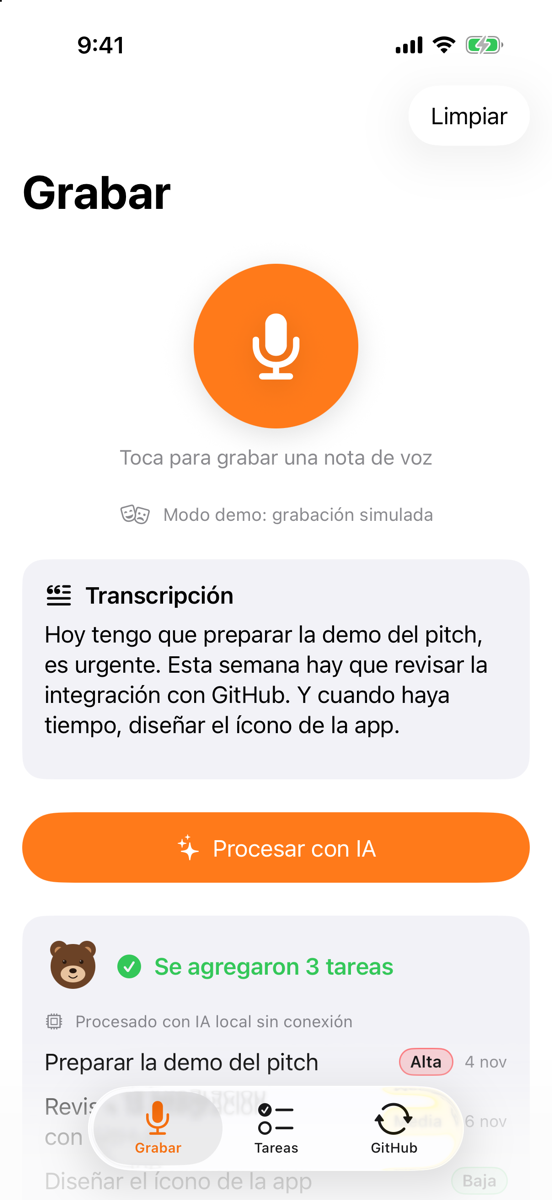
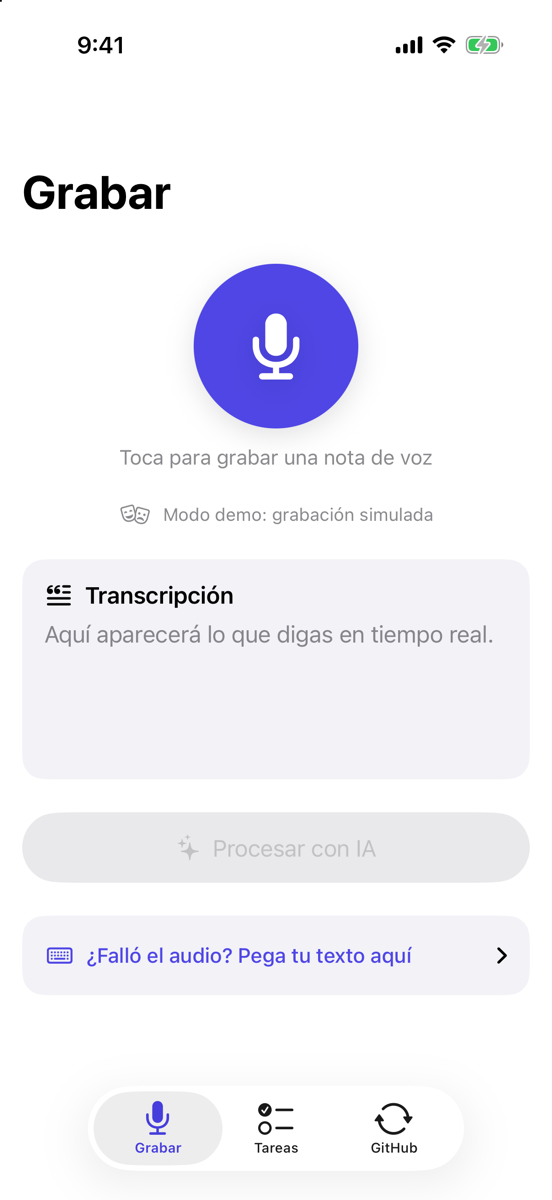
feat: nueva identidad visual con mascota búho propia

diff --git a/Voice2Task/Views/Components/MascotView.swift b/Voice2Task/Views/Components/MascotView.swift
@@ -1,0 +1,176 @@
+import SwiftUI
+
+struct MascotView: View {
+    enum Mood {
+        case happy
+        case listening
+    }
+
+    let size: CGFloat
+    var mood: Mood?
+
+    private let amber = Color(red: 245 / 255, green: 165 / 255, blue: 36 / 255)
+    private let tuftColor = Color(red: 217 / 255, green: 134 / 255, blue: 26 / 255)
+    private let faceColor = Color(red: 255 / 255, green: 231 / 255, blue: 184 / 255)
+    private let dark = Color(red: 31 / 255, green: 27 / 255, blue: 58 / 255)
+    private let beakColor = Color(red: 249 / 255, green: 115 / 255, blue: 22 / 255)
+
+    var body: some View {
+        ZStack {
+            if mood == .listening {
+                HeadphoneBand()
+                    .stroke(.white, style: StrokeStyle(lineWidth: size * 0.025, lineCap: .round))
+                    .frame(width: size * 0.94, height: size * 0.55)
+                    .offset(y: -size * 0.2)
+            }
+
+            Ellipse()
+                .fill(amber)
+                .frame(width: size * 0.78, height: size * 0.9)
+                .offset(y: size * 0.04)
+
+            OwlTuft()
+                .fill(tuftColor)
+                .frame(width: size * 0.2, height: size * 0.19)
+                .rotationEffect(.degrees(-12))
+                .offset(x: -size * 0.22, y: -size * 0.36)
+            OwlTuft()
+                .fill(tuftColor)
+                .frame(width: size * 0.2, height: size * 0.19)
+                .rotationEffect(.degrees(12))
+                .offset(x: size * 0.22, y: -size * 0.36)
+
+            Circle()
+                .fill(faceColor)
+                .frame(width: size * 0.46, height: size * 0.46)
+                .offset(x: -size * 0.13, y: -size * 0.065)
+            Circle()
+                .fill(faceColor)
+                .frame(width: size * 0.46, height: size * 0.46)
+                .offset(x: size * 0.13, y: -size * 0.065)
+
+            if mood == .happy {
+                ClosedEye()
+                    .stroke(dark, style: StrokeStyle(lineWidth: size * 0.035, lineCap: .round))
+                    .frame(width: size * 0.18, height: size * 0.1)
+                    .offset(x: -size * 0.14, y: -size * 0.06)
+                ClosedEye()
+                    .stroke(dark, style: StrokeStyle(lineWidth: size * 0.035, lineCap: .round))
+                    .frame(width: size * 0.18, height: size * 0.1)
+                    .offset(x: size * 0.14, y: -size * 0.06)
+            } else {
+                eye.offset(x: -size * 0.14, y: -size * 0.065)
+                eye.offset(x: size * 0.14, y: -size * 0.065)
+            }
+
+            RoundedTriangle()
+                .fill(beakColor)
+                .frame(width: size * 0.15, height: size * 0.14)
+                .offset(y: size * 0.075)
+
+            Ellipse()
+                .fill(faceColor)
+                .frame(width: size * 0.43, height: size * 0.31)
+                .offset(y: size * 0.29)
+
+            ForEach(0..<3) { index in
+                FeatherChevron()
+                    .stroke(tuftColor, style: StrokeStyle(lineWidth: size * 0.014, lineCap: .round))
+                    .frame(width: size * 0.13, height: size * 0.045)
+                    .offset(y: size * (0.2 + CGFloat(index) * 0.07))
+            }
+
+            if mood == .listening {
+                headphones
+            }
+        }
+        .frame(width: size, height: size)
+        .accessibilityHidden(true)
+    }
+
+    private var eye: some View {
+        ZStack {
+            Circle()
+                .fill(.white)
+                .frame(width: size * 0.22, height: size * 0.22)
+            Circle()
+                .fill(dark)
+                .frame(width: size * 0.105, height: size * 0.105)
+            Circle()
+                .fill(.white)
+                .frame(width: size * 0.035, height: size * 0.035)
+                .offset(x: -size * 0.027, y: -size * 0.032)
+        }
+    }
+
+    private var headphones: some View {
+        HStack {
+            RoundedRectangle(cornerRadius: size * 0.04)
+                .fill(Color.accentColor)
+                .frame(width: size * 0.11, height: size * 0.22)
+            Spacer()
+            RoundedRectangle(cornerRadius: size * 0.04)
+                .fill(Color.accentColor)
+                .frame(width: size * 0.11, height: size * 0.22)
+        }
+        .frame(width: size * 0.95)
+        .offset(y: -size * 0.02)
+    }
+}
+
+private struct OwlTuft: Shape {
+    func path(in rect: CGRect) -> Path {
+        Path { path in
+            path.move(to: CGPoint(x: rect.minX, y: rect.maxY))
+            path.addQuadCurve(to: CGPoint(x: rect.midX, y: rect.minY), control: CGPoint(x: rect.minX, y: rect.minY))
+            path.addQuadCurve(to: CGPoint(x: rect.maxX, y: rect.maxY), control: CGPoint(x: rect.maxX, y: rect.minY))
+            path.closeSubpath()
+        }
+    }
+}
+
+private struct RoundedTriangle: Shape {
+    func path(in rect: CGRect) -> Path {
+        Path { path in
+            path.move(to: CGPoint(x: rect.minX, y: rect.minY))
+            path.addQuadCurve(to: CGPoint(x: rect.maxX, y: rect.minY), control: CGPoint(x: rect.midX, y: rect.minY + rect.height * 0.12))
+            path.addQuadCurve(
+                to: CGPoint(x: rect.midX, y: rect.maxY),
+                control: CGPoint(x: rect.minX + rect.width * 0.86, y: rect.minY + rect.height * 0.82)
+            )
+            path.addQuadCurve(
+                to: CGPoint(x: rect.minX, y: rect.minY),
+                control: CGPoint(x: rect.minX + rect.width * 0.14, y: rect.minY + rect.height * 0.82)
+            )
+            path.closeSubpath()
+        }
+    }
+}
+
+private struct ClosedEye: Shape {
+    func path(in rect: CGRect) -> Path {
+        Path { path in
+            path.move(to: CGPoint(x: rect.minX, y: rect.maxY))
+            path.addQuadCurve(to: CGPoint(x: rect.maxX, y: rect.maxY), control: CGPoint(x: rect.midX, y: rect.minY))
+        }
+    }
+}
+
+private struct HeadphoneBand: Shape {
+    func path(in rect: CGRect) -> Path {
+        Path { path in
+            path.move(to: CGPoint(x: rect.minX, y: rect.maxY))
+            path.addQuadCurve(to: CGPoint(x: rect.maxX, y: rect.maxY), control: CGPoint(x: rect.midX, y: rect.minY))
+        }
+    }
+}
+
+private struct FeatherChevron: Shape {
+    func path(in rect: CGRect) -> Path {
+        Path { path in
+            path.move(to: CGPoint(x: rect.minX, y: rect.minY))
+            path.addQuadCurve(to: CGPoint(x: rect.midX, y: rect.maxY), control: CGPoint(x: rect.minX + rect.width * 0.25, y: rect.maxY))
+            path.addQuadCurve(to: CGPoint(x: rect.maxX, y: rect.minY), control: CGPoint(x: rect.maxX - rect.width * 0.25, y: rect.maxY))
+        }
+    }
+}

diff --git a/Voice2Task/Views/RecordingView.swift b/Voice2Task/Views/RecordingView.swift
@@ -3,17 +3,17 @@ import SwiftUI
 struct RecordingView: View {
     @Environment(RecordingViewModel.self) private var viewModel
     @State private var showManualInput = false
-    @State private var resultBearBounce = false
+    @State private var resultMascotBounce = false
 
     var body: some View {
         recordingScreen
             .onChange(of: viewModel.tasksAddedCount) { oldValue, taskCount in
                 guard taskCount > oldValue else { return }
-                resultBearBounce = false
+                resultMascotBounce = false
                 Task {
                     try? await Task.sleep(for: .milliseconds(40))
                     withAnimation(.spring(response: 0.35, dampingFraction: 0.5)) {
-                        resultBearBounce = true
+                        resultMascotBounce = true
                     }
                 }
             }
@@ -69,7 +69,7 @@ struct RecordingView: View {
         VStack(spacing: 12) {
             if viewModel.isRecording {
                 VStack(spacing: 2) {
-                    BearMascotView(size: 54, mood: .listening)
+                    MascotView(size: 54, mood: .listening)
                     WaveformView(level: viewModel.audioLevel)
                 }
                 .transition(.move(edge: .top).combined(with: .opacity))
@@ -147,9 +147,9 @@ struct RecordingView: View {
     private var extractedTasksCard: some View {
         VStack(alignment: .leading, spacing: 12) {
             HStack(spacing: 10) {
-                BearMascotView(size: 42, mood: .happy)
-                    .scaleEffect(resultBearBounce ? 1 : 0.78)
-                    .rotationEffect(.degrees(resultBearBounce ? 0 : -8))
+                MascotView(size: 42, mood: .happy)
+                    .scaleEffect(resultMascotBounce ? 1 : 0.78)
+                    .rotationEffect(.degrees(resultMascotBounce ? 0 : -8))
                 Label("Se agregaron \(viewModel.lastExtractedTasks.count) tareas", systemImage: "checkmark.circle.fill")
                     .font(.headline)
                     .foregroundStyle(.green)

diff --git a/Voice2Task/Views/OnboardingView.swift b/Voice2Task/Views/OnboardingView.swift
@@ -12,7 +12,7 @@ struct OnboardingView: View {
                 pageContent(
                     title: "Habla, Voice2Task escucha",
                     message: "Dicta todo lo que tienes pendiente, como se lo contarías a un compañero.",
-                    showsBear: true
+                    showsMascot: true
                 )
                 .tag(0)
 
@@ -57,11 +57,11 @@ struct OnboardingView: View {
         .interactiveDismissDisabled()
     }
 
-    private func pageContent(title: String, message: String, showsBear: Bool = false) -> some View {
+    private func pageContent(title: String, message: String, showsMascot: Bool = false) -> some View {
         VStack(spacing: 24) {
             Spacer()
-            if showsBear {
-                BearMascotView(size: 190, mood: .listening)
+            if showsMascot {
+                MascotView(size: 190, mood: .listening)
                     .padding(.bottom, 12)
             } else {
                 Image(systemName: title.hasPrefix("La IA") ? "sparkles" : "arrow.up.circle")

diff --git a/Voice2Task/Views/TasksListView.swift b/Voice2Task/Views/TasksListView.swift
@@ -32,7 +32,7 @@ struct TasksListView: View {
                         Label {
                             Text("Sin tareas todavía — graba una nota o toca +")
                         } icon: {
-                            BearMascotView(size: 88, mood: .happy)
+                            MascotView(size: 88, mood: .happy)
                         }
                     } description: {
                         Text("Tus tareas aparecerán aquí.")
@@ -59,7 +59,7 @@ struct TasksListView: View {
             .overlay {
                 if showCelebration {
                     VStack(spacing: 12) {
-                        BearMascotView(size: 112, mood: .happy)
+                        MascotView(size: 112, mood: .happy)
                             .scaleEffect(showCelebration ? 1 : 0.85)
                         Text("¡Todo listo!")
                             .font(.title2.bold())

diff --git a/README.md b/README.md
@@ -4,7 +4,7 @@
 
 <h1 align="center">Voice2Task</h1>
 
-<p align="center"><b>Habla. El oso escucha. Tus pendientes se convierten en tareas.</b><br>
+<p align="center"><b>Habla. El búho escucha. Tus pendientes se convierten en tareas.</b><br>
 App iOS nativa que convierte una nota de voz en tareas con prioridad, fecha límite y recordatorio, y las sube como issues de GitHub. Funciona sin conexión y sin API keys.</p>
 
 ## Descripción
@@ -17,7 +17,7 @@ La extracción de tareas tiene tres niveles: usa OpenAI si hay API key; si no, A
 
 ## Cómo funciona
 
-1. **Graba:** toca el micrófono y habla. El oso te escucha con una onda de audio en vivo y `SFSpeechRecognizer` transcribe en español.
+1. **Graba:** toca el micrófono y habla. El búho te escucha con una onda de audio en vivo y `SFSpeechRecognizer` transcribe en español.
 2. **Procesa:** "Procesar con IA" divide la nota en tareas y detecta prioridades (*urgente*, *cuando haya tiempo*) y fechas (*hoy*, *mañana*, *el viernes*, *esta semana*).
 3. **Organiza:** edita, completa o crea tareas a mano. Un anillo de progreso muestra lo pendiente para hoy y lo vencido, y al terminar todo aparece "¡Todo listo!".
 4. **Comparte:** sube cada tarea como issue de GitHub. Si una tarea ya tiene issue, se vincula al existente y no se duplica.
